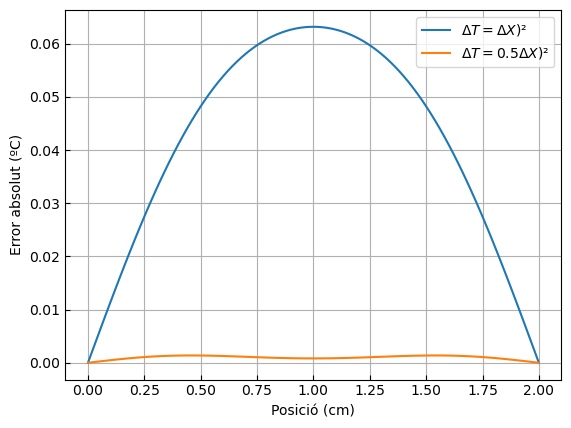
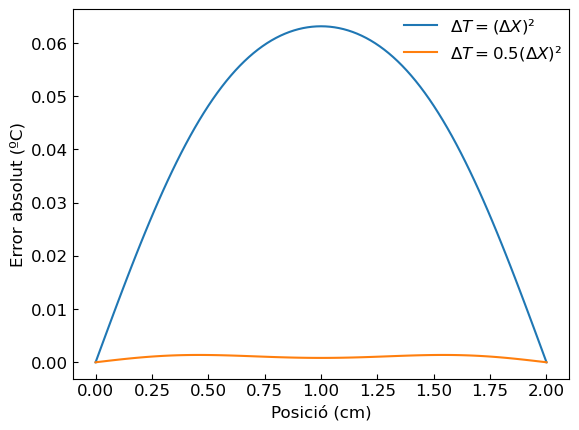
crankk 1.22

diff --git a/crank-nicholson.py b/crank-nicholson.py
@@ -59,8 +59,9 @@ for deltat in deltat_list:
     err_list.append(abs(analitica(ta) - ((T/((0.56)/(Pext * L**2)))-273.15)))
 
 # Gràfica per cada cas
-plt.plot(x, T_list[0], label = f"$\\Delta T = \\Delta X)²$")
-plt.plot(x, T_list[1], label = f"$\\Delta T = 0.5 \\Delta X)²$")
+plt.rcParams.update({'font.size': 12})
+plt.plot(x, T_list[0], label = f"$\\Delta T = (\\Delta X)²$")
+plt.plot(x, T_list[1], label = f"$\\Delta T = 0.5 (\\Delta X)²$")
 plt.hlines(50,0,2,color='r',linestyle='--')
 plt.hlines(80,0,2,color='r',linestyle='--')
 plt.vlines(0.75,36.5,80,color='r',linestyle='--')
@@ -68,29 +69,26 @@ plt.vlines(1.25,36.5,80,color='r',linestyle='--')
 plt.xlabel('Posició (cm)')
 plt.ylabel('Temperatura  (ºC)')
 plt.gca().tick_params(direction="in")
-plt.legend()
-plt.grid()
+plt.legend(loc=1, frameon=False, borderaxespad= 1)
 plt.savefig('figures/crank.png', bbox_inches='tight')
 plt.show()
 
 # Gràfica d'errors absoluts
-plt.plot(x, err_list[0], label = f"$\\Delta T = \\Delta X)²$")
-plt.plot(x, err_list[1], label = f"$\\Delta T = 0.5 \\Delta X)²$")
+plt.plot(x, err_list[0], label = f"$\\Delta T = (\\Delta X)²$")
+plt.plot(x, err_list[1], label = f"$\\Delta T = 0.5 (\\Delta X)²$")
 plt.xlabel('Posició (cm)')
 plt.ylabel('Error absolut (ºC)')
 plt.gca().tick_params(direction="in")
-plt.legend()
-plt.grid()
+plt.legend(loc=1, frameon=False, borderaxespad= 0)
 plt.savefig('figures/err_crank.png', bbox_inches='tight')
 plt.show()
 
 # Gràfica d'errros relatius percentuals
-plt.plot(x, (err_list[0] / analitica(ta))*100, label = f"$\\Delta T = \\Delta X)²$")
-plt.plot(x, (err_list[1] / analitica(ta))*100, label = f"$\\Delta T = 0.5 \\Delta X)²$")
+plt.plot(x, (err_list[0] / analitica(ta))*100, label = f"$\\Delta T = (\\Delta X)²$")
+plt.plot(x, (err_list[1] / analitica(ta))*100, label = f"$\\Delta T = 0.5 (\\Delta X)²$")
 plt.xlabel('Posició (cm)')
-plt.ylabel('Error realtiu')
+plt.ylabel('Error relatiu')
 plt.gca().tick_params(direction="in")
-plt.legend()
-plt.grid()
+plt.legend(loc=1, frameon=False, borderaxespad= 0)
 plt.savefig('figures/relerr_crank.png', bbox_inches='tight')
 plt.show()
